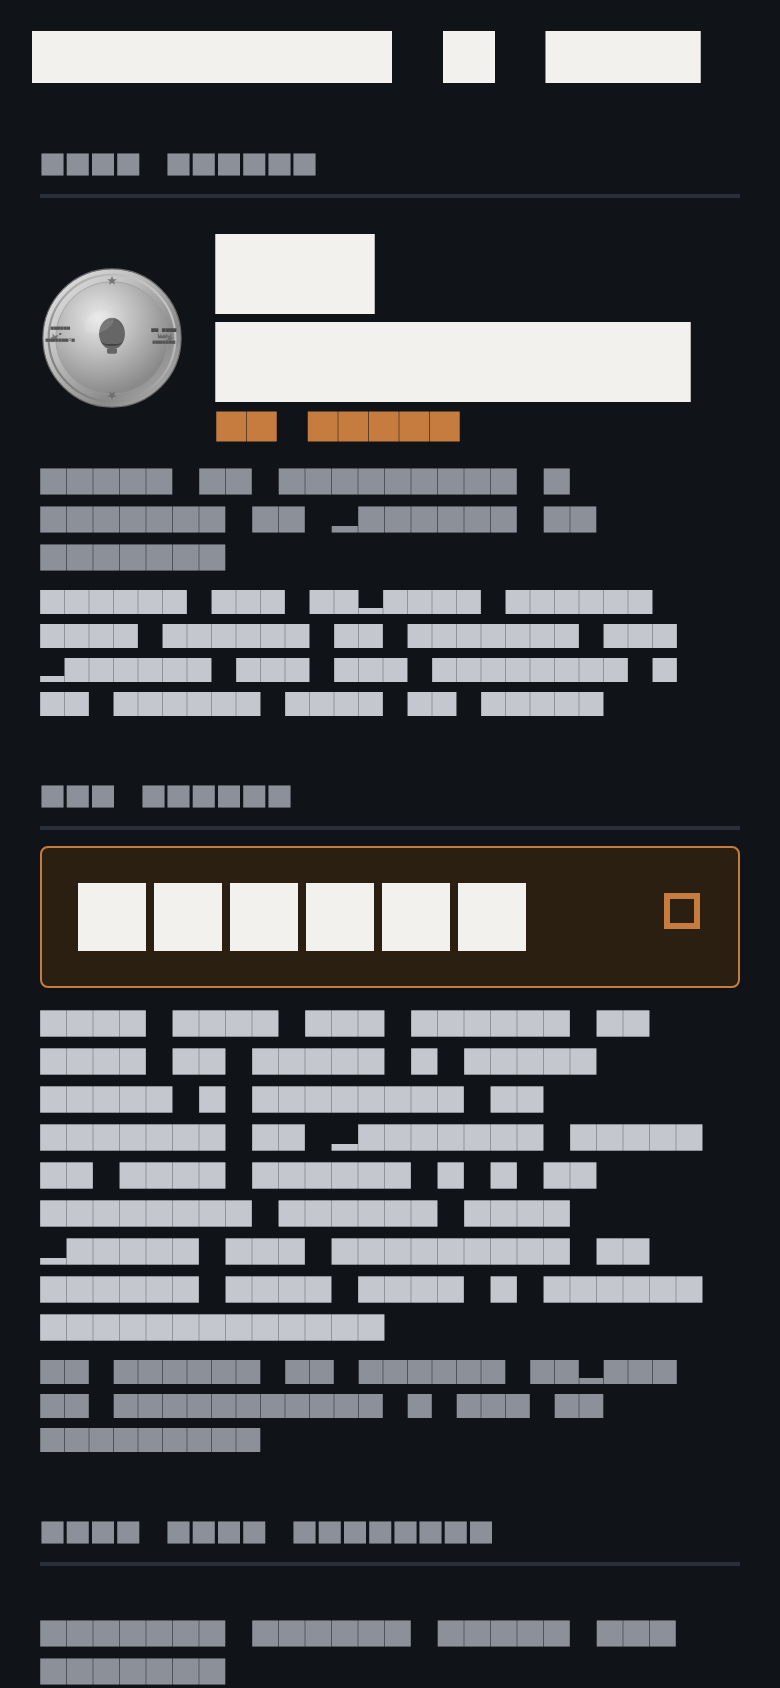
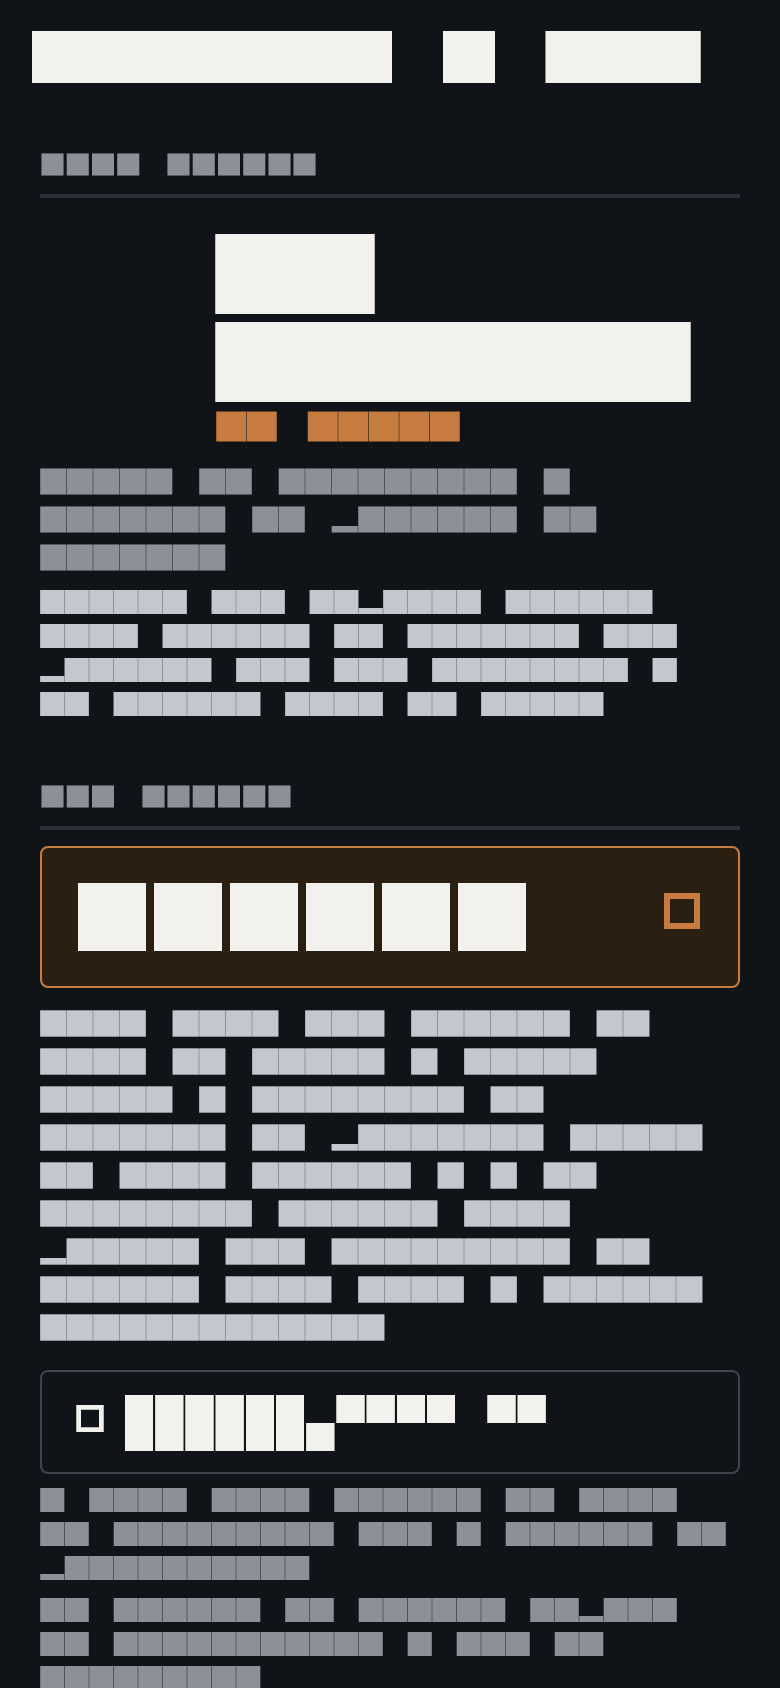
Atualiza a moeda virtual da landing para o PNG da marca.
Alinha o ícone e a captura da tela de moeda ao asset usado no app.

Changed region(s): [[0.0308, 0.8009, 0.9538, 1.0], [0.0308, 0.154, 0.2462, 0.2464]]

diff --git a/index.html b/index.html
@@ -361,7 +361,7 @@
         atendimentos feitos antes de você criar a conta.</p>
       </div>
       <div class="cartao cartao-destaque">
-        <h3><img class="icone-moeda" src="assets/moeda-virtual.svg" width="22" height="22" alt=""> Moeda virtual</h3>
+        <h3><img class="icone-moeda" src="assets/moeda-virtual.png" width="22" height="22" alt=""> Moeda virtual</h3>
         <p>Ganhe moedas convidando amigos, na roleta da casa ou ao comprar
         pacotes. Vale em serviço e produto &mdash; não saca, não expira. Você
         entra no programa quando quiser.</p>
